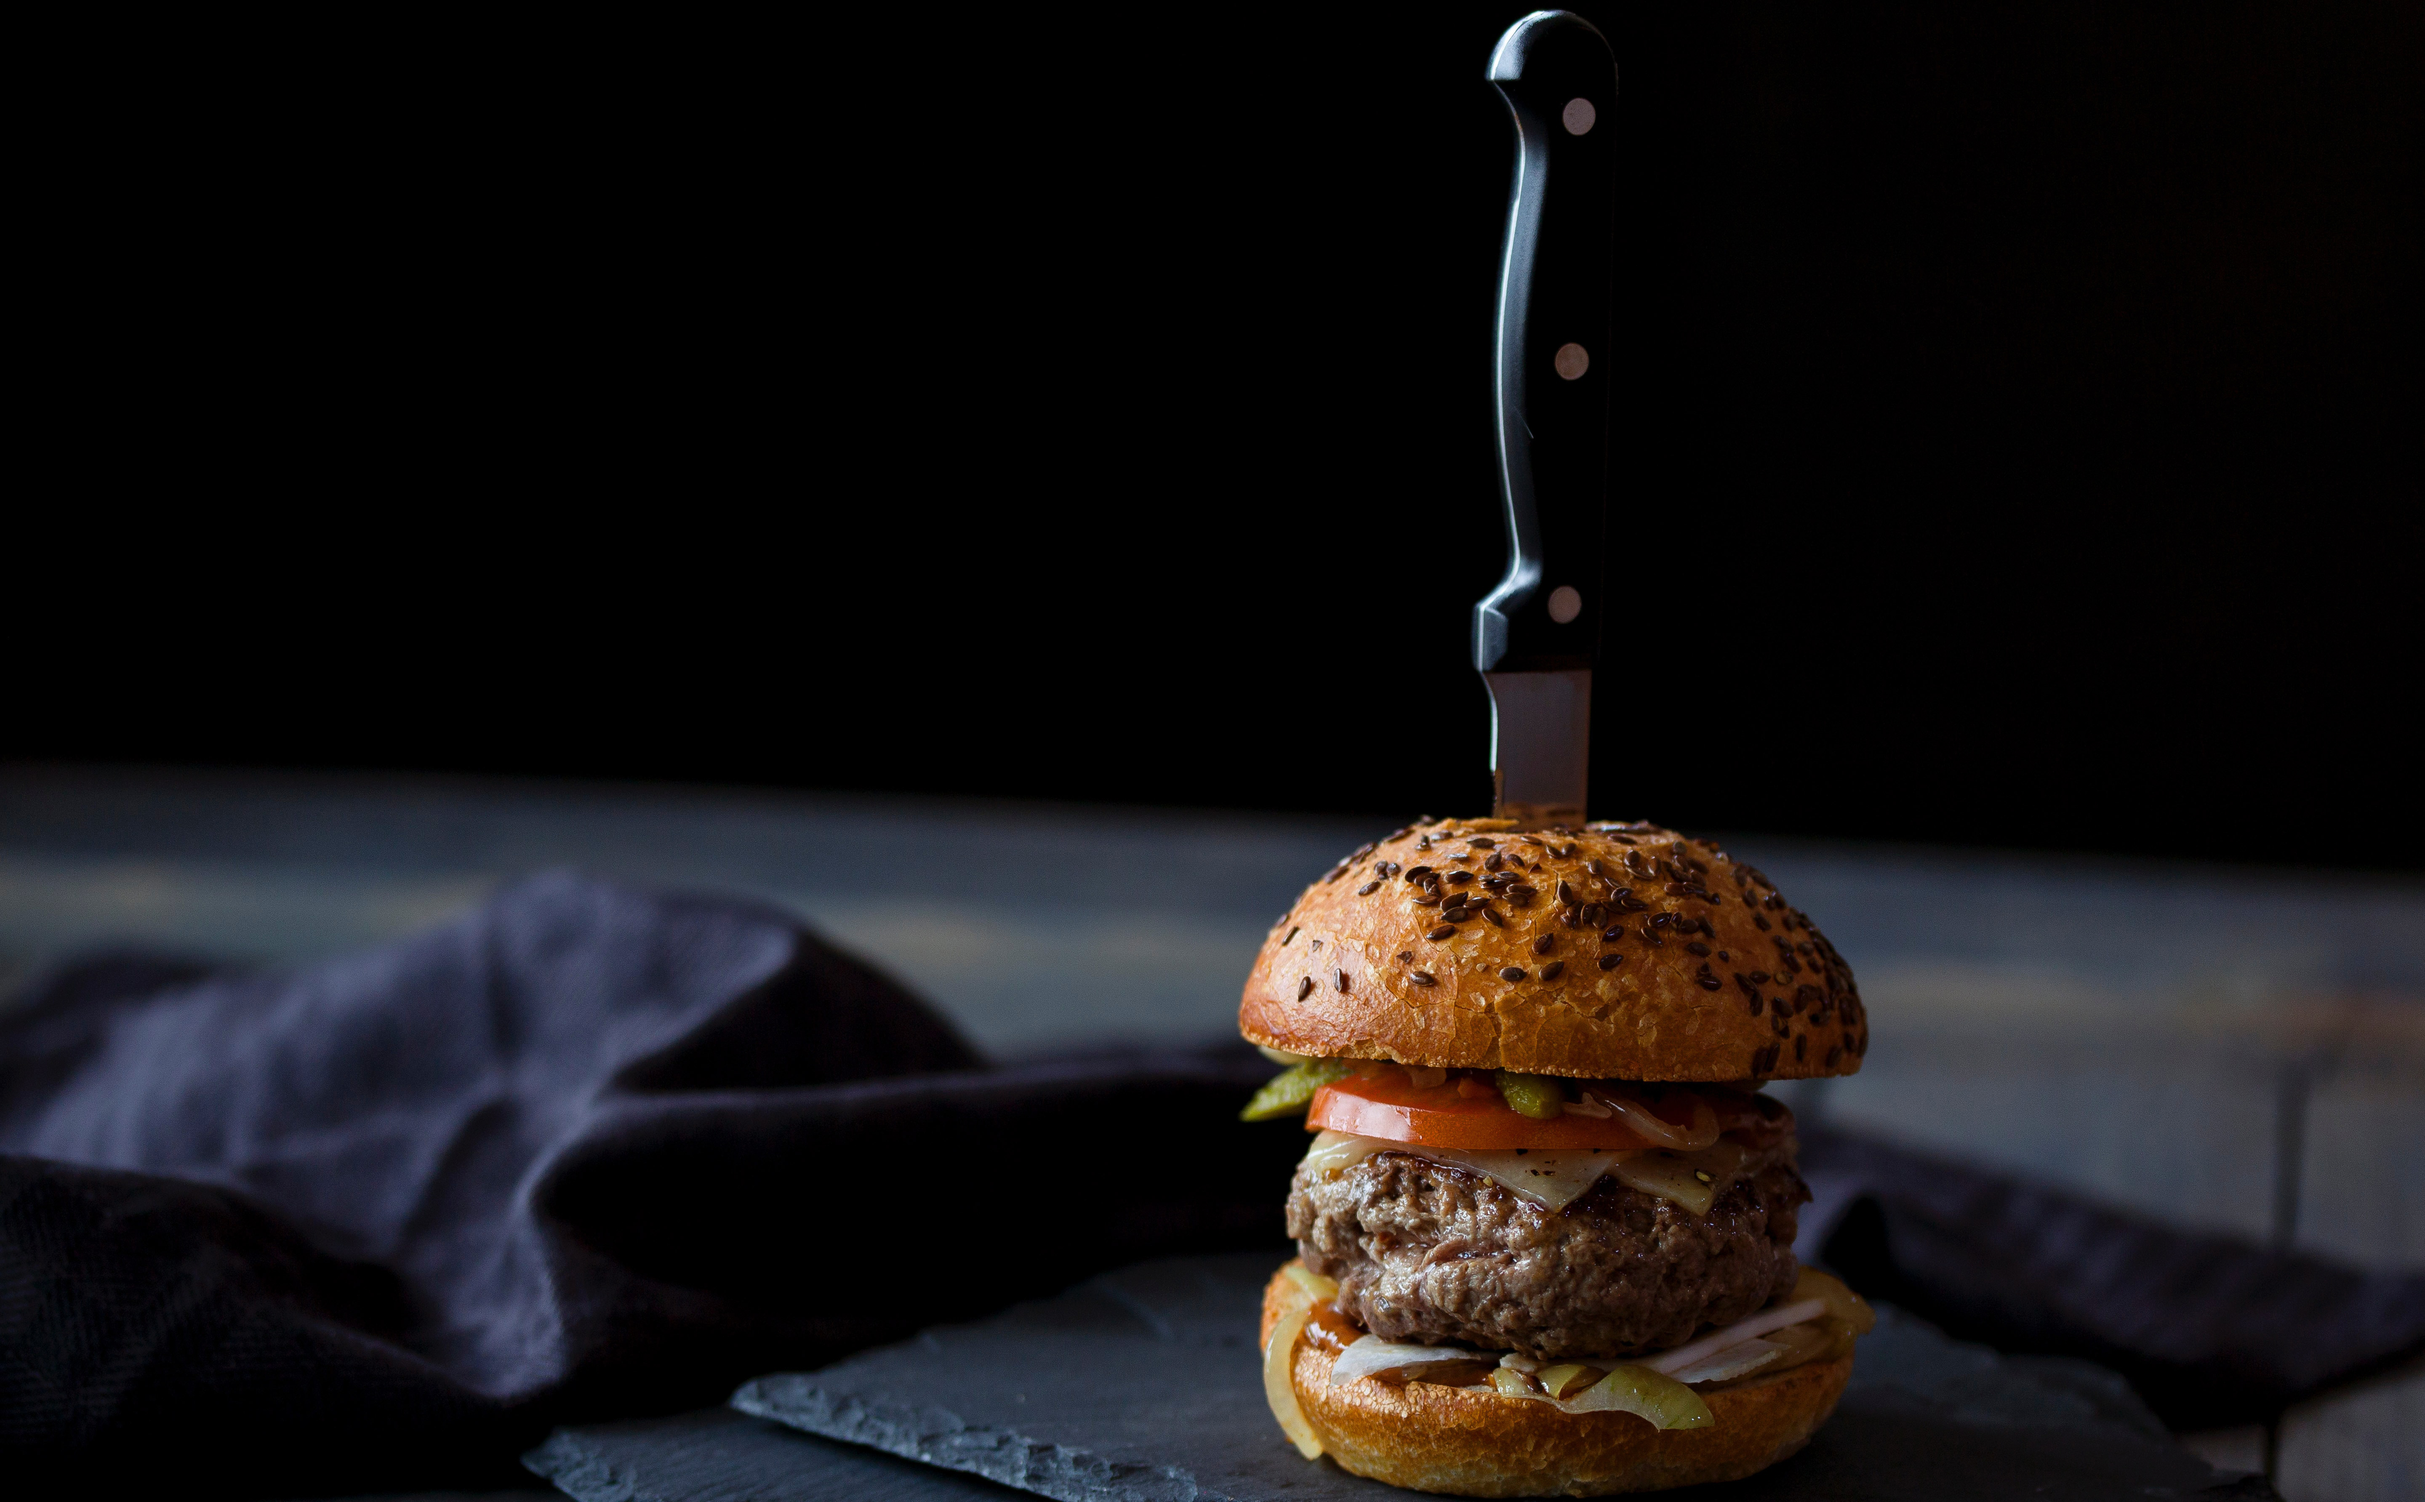
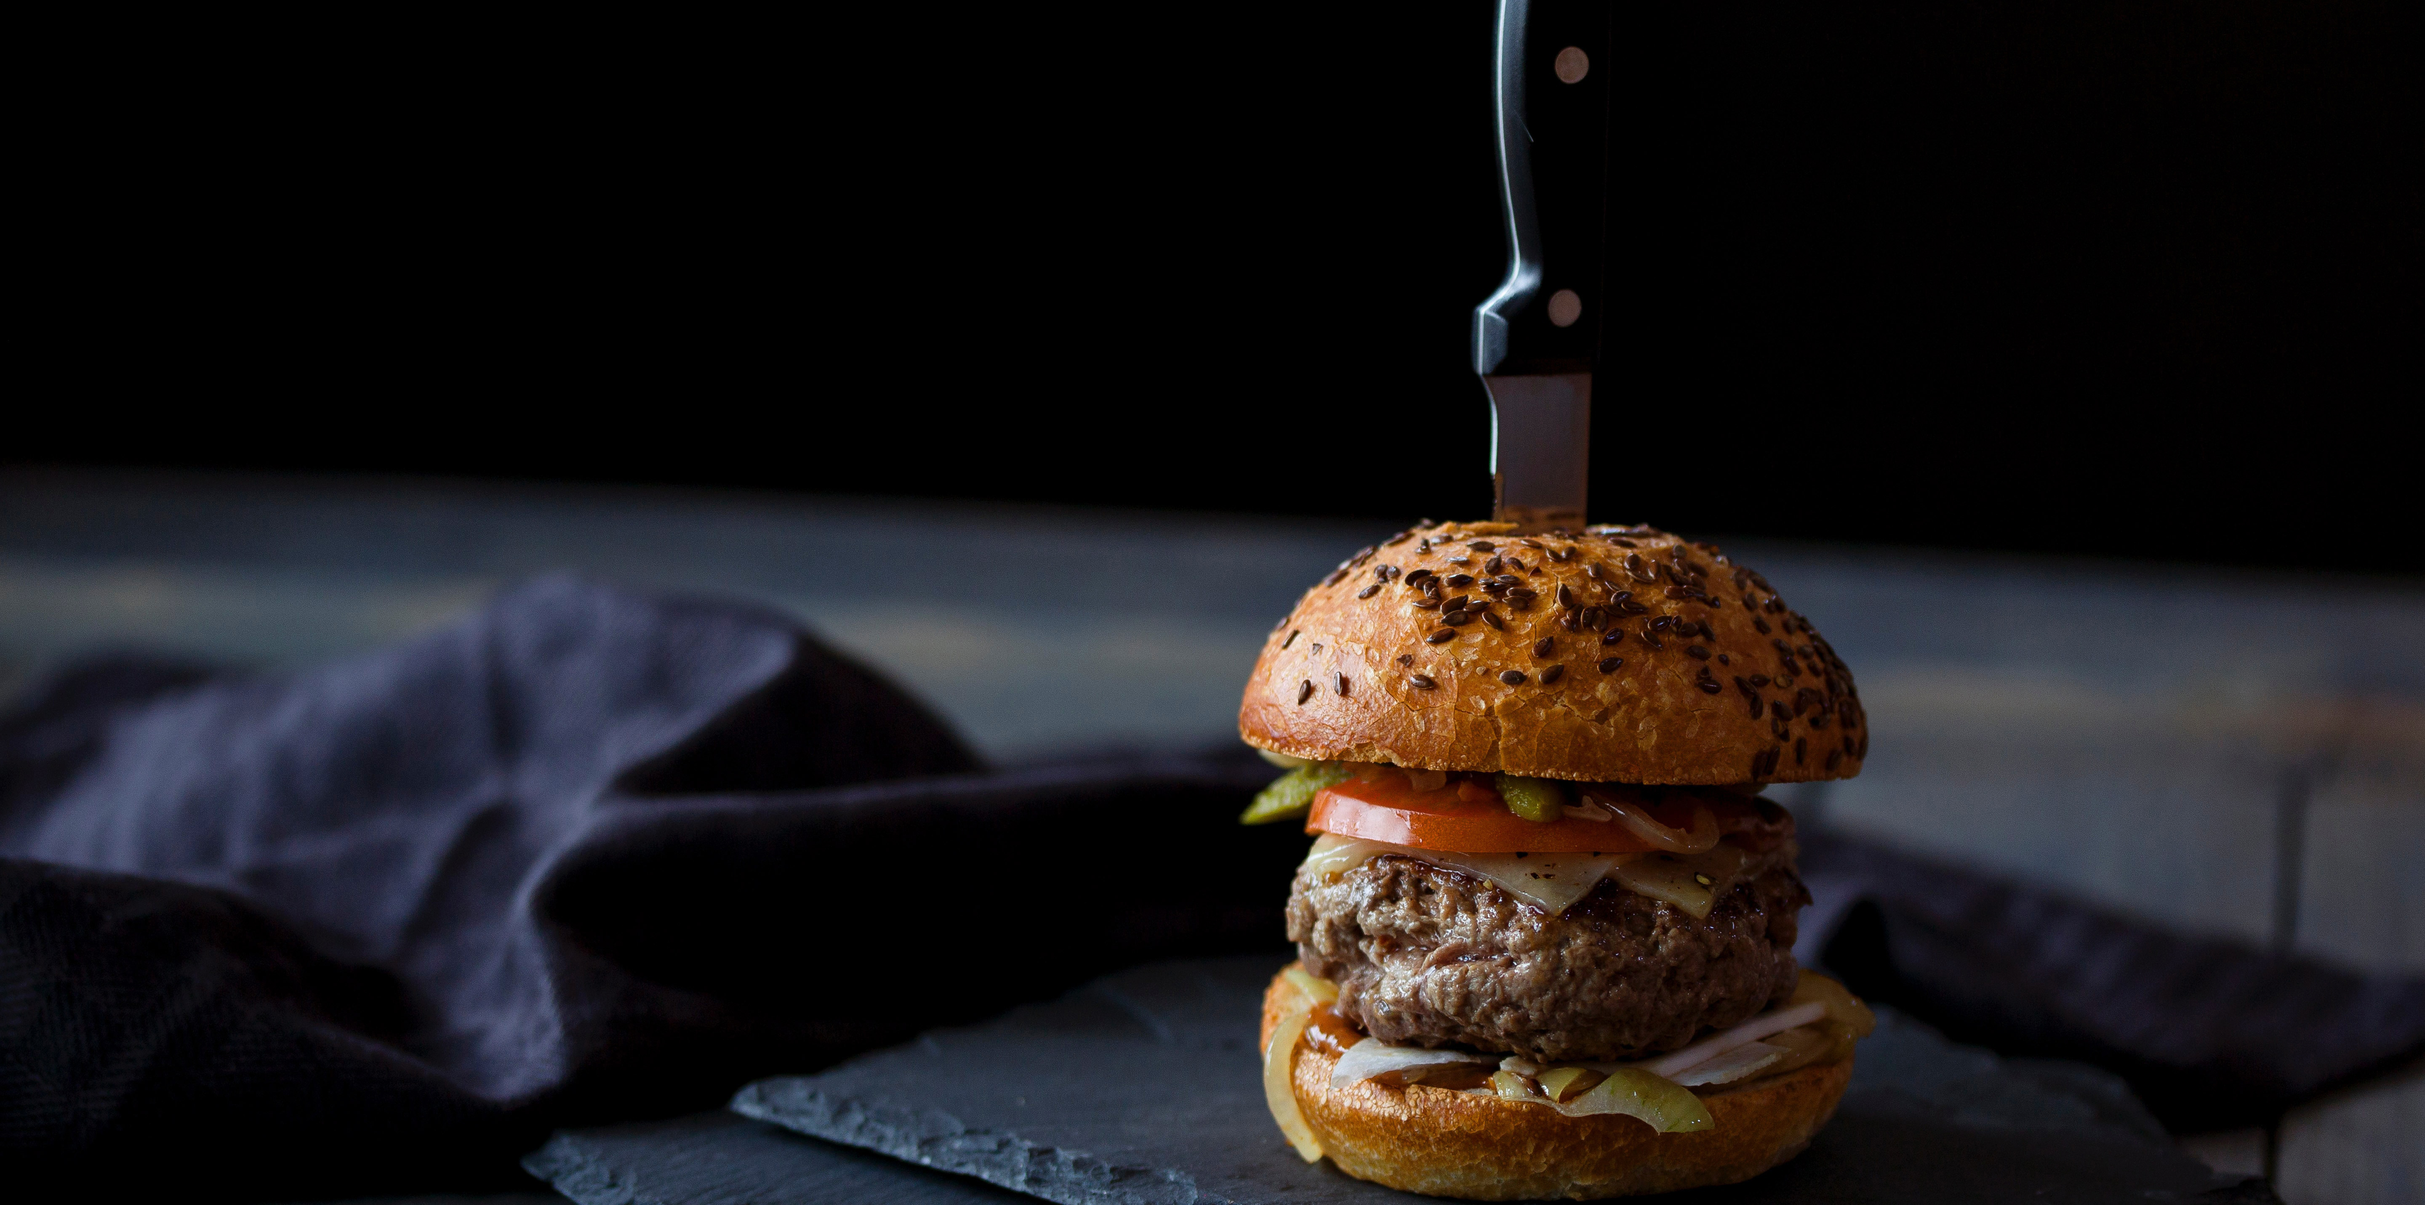
first commit

diff --git a/css/main.css b/css/main.css
@@ -51,7 +51,8 @@
     background-image: url("../images/burger-2.jpg");
     background-size: cover;
     width: 100%;
-    height: 700px;
+    height: 90vh;
+    background-position: top;
     background-repeat: no-repeat;
 }
 #section-a a{
